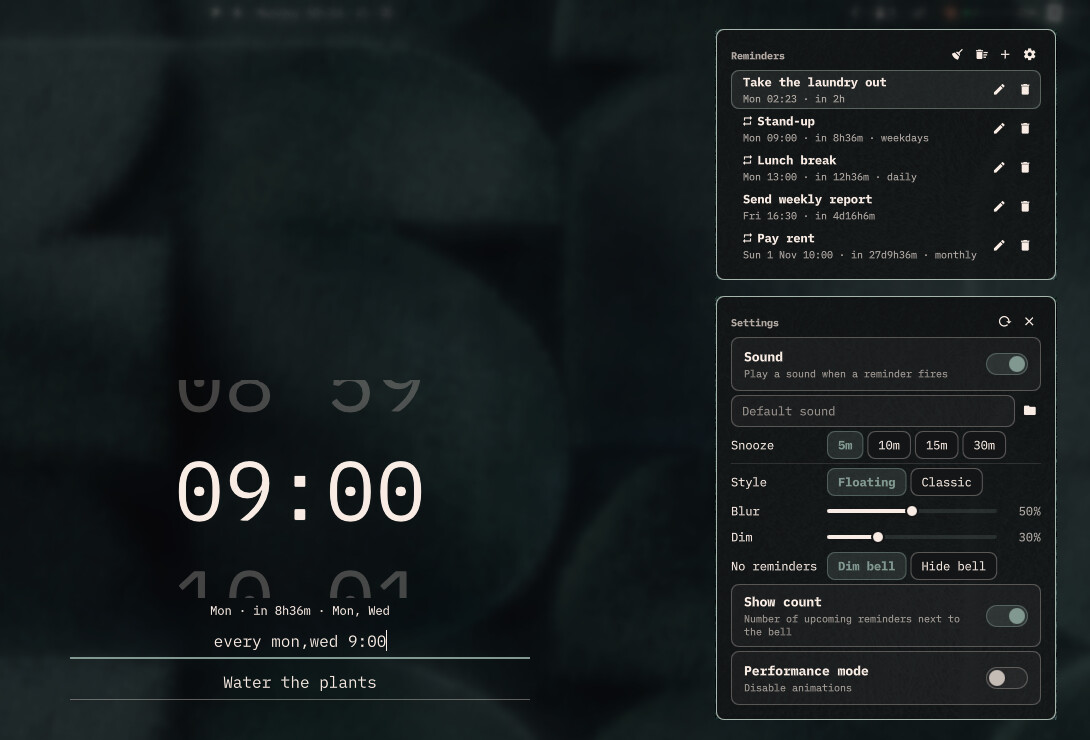
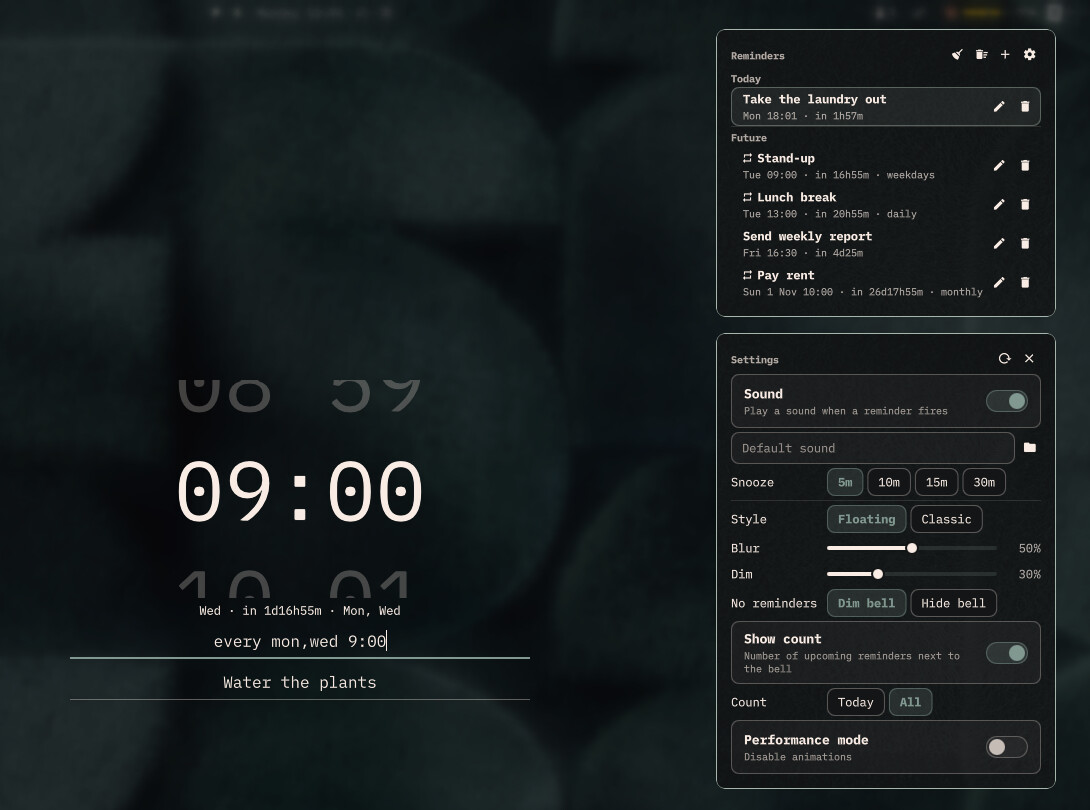
Group the panel list into Today and Future; bell count scope; v0.2.1
The reminder list splits into Today (next fire on the current date) and
Future, each under a section header with a separator between them, and
stays sorted soonest first so the next reminder leads the list.

A new countScope setting (Count: Today / All in the panel) makes the bell
count only today's reminders or every upcoming one. The default is all.

Bumps the version to 0.2.1, documents both changes, and refreshes the
preview image.

diff --git a/Panel.qml b/Panel.qml
@@ -263,77 +263,97 @@ Panel {
             id: rowColumn
             width: listFlick.width
 
+            // Rows come soonest first, so Today's rows lead and each group starts
+            // where `today` changes. The header belongs to the group's first row.
             Repeater {
               id: rows
               model: root.reminders
-              CursorSurface {
+              Column {
                 id: row
                 required property var modelData
                 required property int index
+                readonly property bool startsGroup: index === 0 || modelData.today !== root.reminders[index - 1].today
                 width: rowColumn.width
-                implicitHeight: rowContent.implicitHeight + Style.spacing.md * 2
-                hasCursor: root.cursor === index
-                foreground: root.barForeground
+                spacing: Style.spacing.xs
 
-                MouseArea {
-                  anchors.fill: parent
-                  hoverEnabled: true
-                  onContainsMouseChanged: if (containsMouse) root.cursor = row.index
-                  onClicked: root.edit(row.index)
+                PanelSeparator {
+                  visible: row.startsGroup && row.index > 0
+                  foreground: root.barForeground
                 }
 
-                Row {
-                  id: rowContent
-                  anchors.fill: parent
-                  anchors.margins: Style.spacing.md
-                  anchors.leftMargin: Style.spacing.rowPaddingX
-                  spacing: Style.spacing.sm
+                PanelSectionHeader {
+                  visible: row.startsGroup
+                  text: row.modelData.today ? "Today" : "Future"
+                  foreground: root.barForeground
+                  fontFamily: root.fontFamily
+                }
 
-                  Column {
-                    width: parent.width - editButton.width - deleteButton.width - parent.spacing * 2
-                    anchors.verticalCenter: parent.verticalCenter
-                    spacing: Style.spacing.xs
+                CursorSurface {
+                  width: rowColumn.width
+                  implicitHeight: rowContent.implicitHeight + Style.spacing.md * 2
+                  hasCursor: root.cursor === row.index
+                  foreground: root.barForeground
 
-                    Text {
-                      width: parent.width
-                      textFormat: Text.PlainText
-                      text: (row.modelData.repeat ? " " : "") + row.modelData.message
-                      color: root.barForeground
-                      font.family: root.fontFamily
-                      font.pixelSize: Style.font.body
-                      font.bold: true
-                      elide: Text.ElideRight
-                    }
-
-                    Text {
-                      width: parent.width
-                      textFormat: Text.PlainText
-                      text: TimeParser.describe(row.modelData, root.now)
-                      color: root.barForeground
-                      opacity: 0.7
-                      font.family: root.fontFamily
-                      font.pixelSize: Style.font.caption
-                      elide: Text.ElideRight
-                    }
-                  }
-
-                  PanelActionButton {
-                    id: editButton
-                    anchors.verticalCenter: parent.verticalCenter
-                    iconText: ""
-                    tooltipText: "Edit"
-                    foreground: root.barForeground
+                  MouseArea {
+                    anchors.fill: parent
+                    hoverEnabled: true
+                    onContainsMouseChanged: if (containsMouse) root.cursor = row.index
                     onClicked: root.edit(row.index)
                   }
 
-                  PanelActionButton {
-                    id: deleteButton
-                    anchors.verticalCenter: parent.verticalCenter
-                    iconText: ""
-                    tooltipText: "Delete (x)"
-                    foreground: root.barForeground
-                    hoverColor: Color.urgent
-                    onClicked: root.remove(row.index)
+                  Row {
+                    id: rowContent
+                    anchors.fill: parent
+                    anchors.margins: Style.spacing.md
+                    anchors.leftMargin: Style.spacing.rowPaddingX
+                    spacing: Style.spacing.sm
+
+                    Column {
+                      width: parent.width - editButton.width - deleteButton.width - parent.spacing * 2
+                      anchors.verticalCenter: parent.verticalCenter
+                      spacing: Style.spacing.xs
+
+                      Text {
+                        width: parent.width
+                        textFormat: Text.PlainText
+                        text: (row.modelData.repeat ? " " : "") + row.modelData.message
+                        color: root.barForeground
+                        font.family: root.fontFamily
+                        font.pixelSize: Style.font.body
+                        font.bold: true
+                        elide: Text.ElideRight
+                      }
+
+                      Text {
+                        width: parent.width
+                        textFormat: Text.PlainText
+                        text: TimeParser.describe(row.modelData, root.now)
+                        color: root.barForeground
+                        opacity: 0.7
+                        font.family: root.fontFamily
+                        font.pixelSize: Style.font.caption
+                        elide: Text.ElideRight
+                      }
+                    }
+
+                    PanelActionButton {
+                      id: editButton
+                      anchors.verticalCenter: parent.verticalCenter
+                      iconText: ""
+                      tooltipText: "Edit"
+                      foreground: root.barForeground
+                      onClicked: root.edit(row.index)
+                    }
+
+                    PanelActionButton {
+                      id: deleteButton
+                      anchors.verticalCenter: parent.verticalCenter
+                      iconText: ""
+                      tooltipText: "Delete (x)"
+                      foreground: root.barForeground
+                      hoverColor: Color.urgent
+                      onClicked: root.remove(row.index)
+                    }
                   }
                 }
               }
@@ -439,6 +459,17 @@ Panel {
             foreground: root.barForeground
             fontFamily: root.fontFamily
             onClicked: root.saveSetting("showCount", !checked)
+          }
+
+          SettingChoice {
+            visible: root.setting("showCount", true)
+            label: "Count"
+            key: "countScope"
+            fallback: "all"
+            options: [
+              { value: "today", label: "Today" },
+              { value: "all", label: "All" }
+            ]
           }
 
           Toggle {

diff --git a/BarWidget.qml b/BarWidget.qml
@@ -16,6 +16,7 @@ BarWidget {
   property string stateText: "[]"
 
   // Upcoming reminders with `at` moved to the next fire time, soonest first.
+  // `today` marks the ones whose next fire falls on the current date.
   readonly property var reminders: {
     var list = []
     try { list = JSON.parse(root.stateText || "[]") } catch (e) { list = [] }
@@ -29,11 +30,17 @@ BarWidget {
         // ponytail: assumes the interval kept ticking from creation; suspend drift is ignored
         next.at += Math.ceil((now.getTime() / 1000 - entry.at) / entry.everySeconds) * entry.everySeconds
       }
+      next.today = new Date(next.at * 1000).toDateString() === now.toDateString()
       return next
     }).filter(function(entry) {
       return entry.onCalendar || entry.everySeconds > 0 || entry.at * 1000 > now.getTime()
     }).sort(function(a, b) { return a.at - b.at })
   }
+
+  // The bell counts every upcoming reminder, or only today's when countScope is "today".
+  readonly property int count: root.setting("countScope", "all") === "today"
+    ? root.reminders.filter(function(entry) { return entry.today }).length
+    : root.reminders.length
 
   function run(args) {
     Quickshell.execDetached([root.ominder].concat(args))
@@ -128,9 +135,10 @@ BarWidget {
     id: button
     anchors.fill: parent
     bar: root.bar
-    text: root.reminders.length > 0 && root.setting("showCount", true) ? " " + root.reminders.length : ""
+    text: root.count > 0 && root.setting("showCount", true) ? " " + root.count : ""
     dimmed: root.reminders.length === 0
-    tooltipText: root.reminders.length === 1 ? "1 reminder" : root.reminders.length + " reminders"
+    tooltipText: (root.count === 1 ? "1 reminder" : root.count + " reminders")
+      + (root.setting("countScope", "all") === "today" ? " today" : "")
     onPressed: function(b) {
       if (b === Qt.LeftButton) root.toggle()
     }

diff --git a/docs/SPEC.md b/docs/SPEC.md
@@ -49,6 +49,7 @@ Timers do **not** use `Persistent=true`. A reminder whose time passed while the 
 | `dim` | `0` (0 to 1). Floating style: opacity of the scrim, in the theme's scrim colour. `0` means no dimming |
 | `performanceMode` | `false`. Disables the drum animation |
 | `showCount` | `true`. Shows the number of upcoming reminders next to the bell |
+| `countScope` | `all` (choices: `all` / `today`). Which reminders the bell counts: every upcoming one, or only those whose next fire is today |
 | `emptyBell` | `dimmed` (choices: `dimmed` / `hidden`). The bell with no upcoming reminders |
 
 The CLI and the overlay both read settings from the plugin's bar entry first, then from its `plugins[]` entry. The overlay watches `shell.json` with a `FileView`, because the shell API it receives does not refresh on settings edits.
@@ -147,7 +148,7 @@ Opened from the bar widget or `ominder panel`. It always opens on the list view.
 - **New** opens the create overlay.
 - **Settings** (cog) switches to the settings view.
 
-Below the header, upcoming reminders show time, message, and a repeat icon, each with edit and delete. The list scrolls once it passes about six rows, and the cursor row is kept in view.
+Below the header, upcoming reminders show time, message, and a repeat icon, each with edit and delete. They are sorted by next fire time, soonest first, and split into two groups under section headers: **Today** (next fire on the current date) and **Future** (everything later), with a separator between them. The list scrolls once it passes about six rows, and the cursor row is kept in view.
 
 **Settings view.** The header reads *Settings*, with a reset button that returns every setting to its default and an X that returns to the list. The sound file field has a folder button that opens a file chooser. The chooser runs as its own `qml6` process (`bin/pick-sound.qml`), because a GTK file dialog inside the shell process can crash the shell; the chosen path comes back on its output. The Hyprland stub floats and centers that window. Controls, in two groups: sound on/off, sound file, default snooze length; then style, the blur and dim sliders, the bell with no reminders, show count, and performance mode. Blur, dim, and performance mode only affect the floating style. While the blur or dim slider moves, and for 1.2 s after, the create overlay opens under the panel in preview mode: a sample reminder at the sliders' values, on the layer below the panel, with no keyboard focus and no input. Settings are mouse-only.
 
@@ -184,7 +185,7 @@ Plugins have no enable/disable/remove hooks, so the bindings are managed like th
 
 ## Bar widget
 
-A bell, ``, followed by the number of upcoming reminders unless `showCount` is off. With no reminders the bell is dimmed, or hidden when `emptyBell` is `hidden`.
+A bell, ``, followed by the number of upcoming reminders unless `showCount` is off. With `countScope` set to `today`, only reminders whose next fire is today are counted. With no reminders the bell is dimmed, or hidden when `emptyBell` is `hidden`.
 
 ## Bar widget refresh
 

diff --git a/README.md b/README.md
@@ -48,7 +48,7 @@ The create overlay has two fields. Type a time in *when* and press Enter, type t
 
 Above the fields, a large clock shows when the reminder fires, with the day, countdown, and repeat underneath. To adjust the time, scroll over the hours or minutes, or press Up/Down in either field (one minute; with Shift, one hour). Scrolling keeps the form of what you typed: `fri 14:30` becomes `fri 14:31`, and `30` becomes `31m`. Interval repeats such as `every 30m` cannot be scrolled. The **Classic** style setting brings back the compact card with a one-line preview.
 
-Clicking the bell opens the panel, which lists upcoming reminders with edit and delete. The header holds **Clear** (one-time reminders), **Reset** (everything, after confirmation), **New**, and the settings cog. In the panel, `j`/`k` move, Enter edits, `x` deletes, and `n` creates. `s` or `l` opens settings, and `h` or Escape returns to the list. In settings, the folder button next to the sound file opens a file chooser, and the reset button in the header returns every setting to its default.
+Clicking the bell opens the panel, which lists upcoming reminders, soonest first, grouped into **Today** and **Future**, with edit and delete. The header holds **Clear** (one-time reminders), **Reset** (everything, after confirmation), **New**, and the settings cog. In the panel, `j`/`k` move, Enter edits, `x` deletes, and `n` creates. `s` or `l` opens settings, and `h` or Escape returns to the list. In settings, the folder button next to the sound file opens a file chooser, and the reset button in the header returns every setting to its default.
 
 Left-clicking a reminder notification snoozes it. Right-clicking dismisses it.
 
@@ -106,6 +106,7 @@ Settings live on the Ominder entry in `~/.config/omarchy/shell.json` and can be 
 | `dim` | `0` | Floating style: how much the overlay darkens the screen, `0` (none) to `1` |
 | `performanceMode` | `false` | Turn off the clock animation |
 | `showCount` | `true` | Show the number of upcoming reminders next to the bell |
+| `countScope` | `all` | What the bell counts: `all` upcoming reminders or only `today`'s |
 | `emptyBell` | `dimmed` | Bell with no reminders: `dimmed` or `hidden` |
 
 ## How it works
